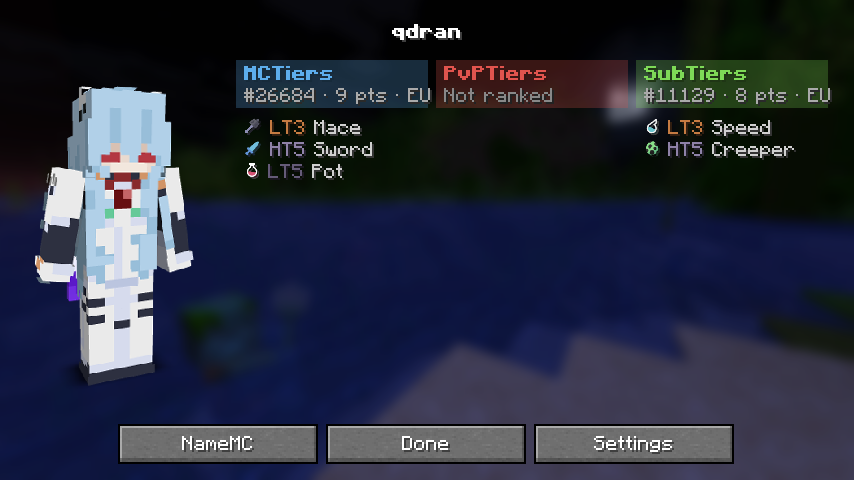
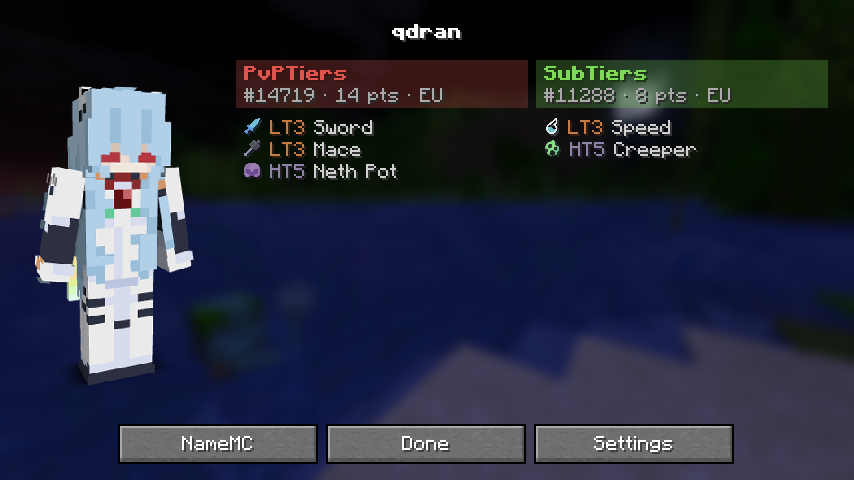
Remove the MCTiers tier list and its API
QTiers no longer contacts mctiers.com: the MCTiers site, its keybind and
its MCTiers-only gamemodes are gone. PvPTiers now defaults to the left
of the name. Old configs that still mention MCTiers load fine; the
entry is dropped. The MCTiers icon style and tier colors are unchanged.

diff --git a/src/main/java/dev/qtiers/GameModes.java b/src/main/java/dev/qtiers/GameModes.java
@@ -21,13 +21,11 @@ public final class GameModes {
     private static final Map<String, Mode> MODES = Map.ofEntries(
             mode("axe", "Axe", '', 0x55FF55),
             mode("mace", "Mace", '', 0xAAAAAA),
-            mode("nethop", "Neth OP", '', 0x7D4A40),
             mode("neth_pot", "Neth Pot", '', 0x7D4A40),
             mode("pot", "Pot", '', 0xFF0000),
             mode("smp", "SMP", '', 0xECCB45),
             mode("sword", "Sword", '', 0xA4FDF0),
             mode("uhc", "UHC", '', 0xFF5555),
-            mode("vanilla", "Vanilla", '', 0xFF55FF),
             mode("crystal", "Crystal", '', 0xFF55FF),
             mode("bed", "Bed", '', 0xFF0000),
             mode("bow", "Bow", '', 0x663D10),
@@ -43,7 +41,6 @@ public final class GameModes {
             mode("trident", "Trident", '', 0x579B8C));
 
     private static final Map<TierSource, List<String>> BY_SOURCE = Map.of(
-            TierSource.MCTIERS, List.of("vanilla", "uhc", "pot", "nethop", "smp", "sword", "axe", "mace"),
             TierSource.PVPTIERS, List.of("crystal", "sword", "uhc", "pot", "neth_pot", "smp", "axe", "mace"),
             TierSource.SUBTIERS, List.of("minecart", "dia_crystal", "debuff", "elytra", "speed", "creeper",
                     "manhunt", "dia_smp", "bow", "bed", "og_vanilla", "trident"));

diff --git a/src/main/java/dev/qtiers/TierSource.java b/src/main/java/dev/qtiers/TierSource.java
@@ -2,11 +2,8 @@ package dev.qtiers;
 
 import java.util.UUID;
 
-/** The three tier-list websites and how to reach their public APIs. */
+/** The tier-list websites and how to reach their public APIs. */
 public enum TierSource {
-    MCTIERS("MCTiers", "MC", 0x5DADEC,
-            "https://mctiers.com/api/v2/profile/%s",
-            "https://mctiers.com/api/v2/profile/by-name/%s"),
     PVPTIERS("PvPTiers", "PVP", 0xE0544E,
             "https://pvptiers.com/api/profile/%s",
             "https://pvptiers.com/api/search_profile/%s"),

diff --git a/src/main/java/dev/qtiers/TierApi.java b/src/main/java/dev/qtiers/TierApi.java
@@ -19,7 +19,7 @@ import java.util.concurrent.ConcurrentHashMap;
 import java.util.concurrent.ExecutorService;
 import java.util.concurrent.Executors;
 
-/** Fetches and caches profiles from all three sites. Never blocks the render thread. */
+/** Fetches and caches profiles from every tier-list site. Never blocks the render thread. */
 public final class TierApi {
     private static final long TTL_MS = Duration.ofMinutes(10).toMillis();
     private static final long ERROR_TTL_MS = Duration.ofMinutes(1).toMillis();

diff --git a/src/main/java/dev/qtiers/QTiersConfig.java b/src/main/java/dev/qtiers/QTiersConfig.java
@@ -62,8 +62,7 @@ public final class QTiersConfig {
 
     private static Map<TierSource, SiteSettings> defaultSites() {
         Map<TierSource, SiteSettings> map = new EnumMap<>(TierSource.class);
-        map.put(TierSource.MCTIERS, new SiteSettings(Position.LEFT));
-        map.put(TierSource.PVPTIERS, new SiteSettings(Position.RIGHT));
+        map.put(TierSource.PVPTIERS, new SiteSettings(Position.LEFT));
         map.put(TierSource.SUBTIERS, new SiteSettings(Position.RIGHT));
         return map;
     }

diff --git a/src/main/java/dev/qtiers/TierProfile.java b/src/main/java/dev/qtiers/TierProfile.java
@@ -8,7 +8,7 @@ import java.util.LinkedHashMap;
 import java.util.Map;
 import java.util.Optional;
 
-/** A player's rankings on one tier-list site. All three sites share this JSON schema. */
+/** A player's rankings on one tier-list site. Every supported site uses this JSON schema. */
 public record TierProfile(String name, String region, int points, int overall, Map<String, Ranking> rankings) {
 
     public static final TierProfile EMPTY = new TierProfile("", "", 0, 0, Map.of());

diff --git a/src/main/java/dev/qtiers/QTiers.java b/src/main/java/dev/qtiers/QTiers.java
@@ -46,7 +46,6 @@ public class QTiers implements ClientModInitializer {
     public void onInitializeClient() {
         QTiersConfig.load();
 
-        CYCLE_KEYS.put(TierSource.MCTIERS, key("cycle_mctiers", GLFW.GLFW_KEY_UNKNOWN));
         CYCLE_KEYS.put(TierSource.PVPTIERS, key("cycle_pvptiers", GLFW.GLFW_KEY_UNKNOWN));
         CYCLE_KEYS.put(TierSource.SUBTIERS, key("cycle_subtiers", GLFW.GLFW_KEY_UNKNOWN));
         toggleKey = key("toggle", GLFW.GLFW_KEY_UNKNOWN);

diff --git a/src/main/java/dev/qtiers/QTiersProfileScreen.java b/src/main/java/dev/qtiers/QTiersProfileScreen.java
@@ -21,7 +21,7 @@ import java.util.Map;
 import java.util.Optional;
 import java.util.concurrent.atomic.AtomicInteger;
 
-/** /qtiers <player>: full-body skin render plus every tier from all three sites. */
+/** /qtiers <player>: full-body skin render plus every tier from each site. */
 public class QTiersProfileScreen extends Screen {
     /**
      * Full-body renders, tried in order (same services the Tiers mod uses). Visage goes first:

diff --git a/README.md b/README.md
@@ -2,18 +2,18 @@
 
 # QTiers
 
-A Fabric client mod for **Minecraft 1.21.11**. It shows **MCTiers**, **PvPTiers** and **SubTiers** rankings together next to player names. It works like TierTagger, but for all three sites at once.
+A Fabric client mod for **Minecraft 1.21.11**. It shows **PvPTiers** and **SubTiers** rankings together next to player names. It works like TierTagger, but for both sites at once.
 
 ```
-⚔HT3 | Steve | 🔮LT2 ⛏HT4
- MCTiers        PvPTiers SubTiers
+⚔HT3 | Steve | ⛏HT4
+PvPTiers        SubTiers
 ```
 
 ![Profile screen](profile-screen.png)
 
 ## Features
-- **All 3 sites at once** in nametags and the tab list. Put each site on the **left** or **right** of the name, or turn it **off**.
-- **Player profile screen** (`/qtiers <player>`): a full-body skin render, plus every tier, peak, points, rank and region from all 3 sites. It has a button to open the player's NameMC page.
+- **Both sites at once** in nametags and the tab list. Put each site on the **left** or **right** of the name, or turn it **off**.
+- **Player profile screen** (`/qtiers <player>`): a full-body skin render, plus every tier, peak, points, rank and region from both sites. It has a button to open the player's NameMC page.
 - **A separate gamemode for each site**, or **Highest**. Fallback rules match TierTagger: *Never*, *If not ranked in mode*, or *Always*.
 - **3 icon styles**, switchable in settings: **MCTiers** (default), **PvPTiers** and **mcpvp.club** (classic). Plus **MCTiers' tier colors** (HT1 gold, HT2 silver, HT3 bronze, and so on). Retired tiers show as `RHT1` in light blue.
 - **Open the nearest player's profile** with **H**.
@@ -28,7 +28,7 @@ A Fabric client mod for **Minecraft 1.21.11**. It shows **MCTiers**, **PvPTiers*
 | Action | Default |
 |---|---|
 | Open nearest player's tiers | H |
-| Cycle MCTiers / PvPTiers / SubTiers gamemode | unbound |
+| Cycle PvPTiers / SubTiers gamemode | unbound |
 | Toggle QTiers | unbound |
 | Open settings | unbound |
 
